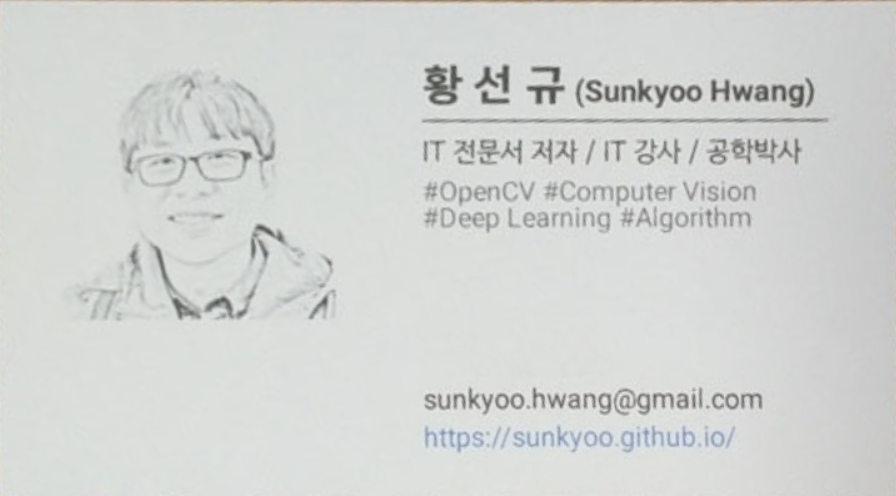
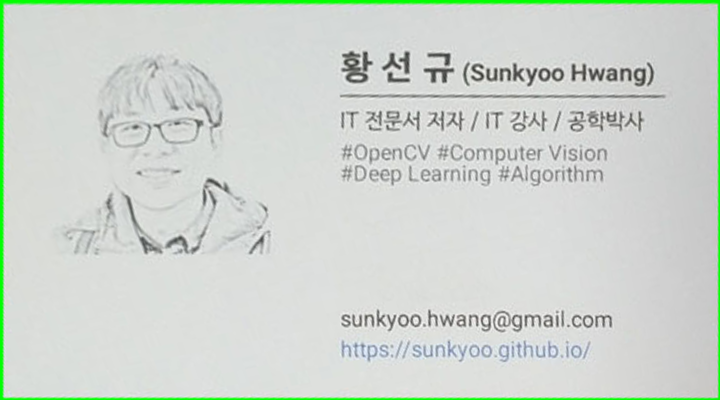
34.4-accuracy rate by pd

diff --git a/openCV_TAcademy/lecture_03/namecard.py b/openCV_TAcademy/lecture_03/namecard.py
@@ -1,51 +1,43 @@
 """
 # Tesseract-ocr 설치하기
-
-# 1. tesseract-ocr-w64-setup-v5.0.0-alpha.20191030.exe 파일 다운로드
-#    (https://digi.bib.uni-mannheim.de/tesseract/tesseract-ocr-w64-setup-v5.0.0-alpha.20200328.exe)
-# 2. 설치 시 "Additional script data" 항목에서 "Hangul Script", "Hangul vertical script" 항목 체크,
-#    "Additional language data" 항목에서 "Korean" 항목 체크.
-# 4. 설치 후 시스템 환경변수 PATH에 Tesseract 설치 폴더 추가
-#    (e.g.) c:/Program Files/Tesseract-OCR
-# 4. 설치 후 시스템 환경변수에 TESSDATA_PREFIX를 추가하고, 변수 값을 <Tesseract-DIR>/tessdata 로 설정
-# 5. <Tesseract-DIR>/tessdata/script/ 폴더에 있는 Hangul.traineddata, Hangul_vert.traineddata 파일을
-#    <Tesseract-DIR>/tessdata/ 폴더로 복사
-# 6. 명령 프롬프트 창에서 pip install pytesseract 명령 입력
+# ---------------------------
+1. tesseract-ocr-w64-setup-v5.0.0-alpha.20191030.exe 파일 다운로드
+   (https://digi.bib.uni-mannheim.de/tesseract/tesseract-ocr-w64-setup-v5.0.0-alpha.20200328.exe)
+2. 설치 시 "Additional script data" 항목에서 "Hangul Script", "Hangul vertical script" 항목 체크,
+   "Additional language data" 항목에서 "Korean" 항목 체크.
+4. 설치 후 시스템 환경변수 PATH에 Tesseract 설치 폴더 추가
+   (e.g.) c:/Program Files/Tesseract-OCR
+4. 설치 후 시스템 환경변수에 TESSDATA_PREFIX를 추가하고, 변수 값을 <Tesseract-DIR>/tessdata 로 설정
+5. <Tesseract-DIR>/tessdata/script/ 폴더에 있는 Hangul.traineddata, Hangul_vert.traineddata 파일을
+   <Tesseract-DIR>/tessdata/ 폴더로 복사
+6. 명령 프롬프트 창에서 pip install pytesseract 명령 입력
 """
 
 from typing import List
 
 import sys
 import cv2
-import PIL
-import easyocr
-# import pytesseract    # ERRON SETUP! -> easyOCR
 import numpy as np
 
-
+# import pytesseract    # ERRON SETUP! -> easyOCR
 from _path import (DIR_SRC, get_cut_dir, stop_if_none)
 
 # 영상 불러오기 : default = namecard1.jpg
-# filename = sys.argv[1] if len(sys.argv) > 1 else filename = 'namecard1.jpg'
-
 filename = 'namecard1.jpg' if len(sys.argv) <= 1 else sys.argv[1]
-dw, dh = (720, 400)             # 명함 왜곡보정 후 출력 되는 사이즈
-
+dw, dh = (720, 400)             # 명함 왜곡보정 후 출력/저장 되는 사이즈
 
 # 영상 로딩이 안될경우 시스템 종료!
 src_RGB = cv2.imread(DIR_SRC + filename)
 src_RGB = stop_if_none(src_RGB, message="image loading failed!")
 
-im = PIL.Image.open(DIR_SRC + filename)
-im = stop_if_none(im, message="image loading failed!")
-
-# 입력 영상 전처리
+# 입력 영상 전처리 = 그레이스케일 + 바이너리 이미지 만들기
 src_gray = cv2.cvtColor(src_RGB, cv2.COLOR_BGR2GRAY)
 _, src_bin = cv2.threshold(src_gray, 0, 255, cv2.THRESH_BINARY | cv2.THRESH_OTSU)
 
 # 출력 영상 설정
-src_quards = np.array([[0, 0], [0, 0], [0, 0], [0, 0]], np.float32)        # empty array
-destin_quards = np.array([[0, 0], [0, dh], [dw, dh], [dw, 0]], np.float32) # C-Clock wise
+src_quards = np.array([[0, 0], [0, 0], [0, 0], [0, 0]], np.float32)
+
+destin_quards = np.array([[0, 0], [0, dh], [dw, dh], [dw, 0]], np.float32)
 destination = np.zeros((dh, dw), np.uint8)
 
 
@@ -65,26 +57,10 @@ def get_reorder_pts(pts:List[int]) -> List[int]:
 
     return pts
 
-def draw_bounds(image, bounds, color='yellow', width=2):
-    """# import PIL needed!"""
-    # Draw bounding boxes
-
-    draw = PIL.ImageDraw.Draw(image)
-    for bound in bounds:
-        p0, p1, p2, p3 = bound[0]
-        draw.line([*p0, *p1, *p2, *p3, *p0], fill=color, width=width)
-    return image
-
-# easyOCR command :
-reader = easyocr.Reader(['en', 'ko',])
-bounds = reader.readtext(DIR_SRC + filename)     # READ TEXT RESULTS
-
-im_boxed = draw_bounds(im, bounds)                # PIL needed
-im_boxed.show()
-
 # 바이너리 이미지(src_bin) 에서 외곽선 검출하고 그 중에 명함추출 하는 방법
 contours, _ = cv2.findContours(src_bin, cv2.RETR_EXTERNAL, cv2.CHAIN_APPROX_NONE)
 
+# 외곽선(contour) 중에서 타겟 외곽선(approx)를 추출 하는 루틴!
 for contour in contours:
     # 너무 작은 객체는 제외 = 면적이 1,000픽셀보다 작은 객체는 제외
     if cv2.contourArea(contour) < 10000:
@@ -99,39 +75,97 @@ for contour in contours:
     if not cv2.isContourConvex(approx) or len(approx) != 4:
         continue
 
-    print(f'*** CHECK: {len(approx)} points found!')
-    print('approx :\n', approx)
+# 원본 이미지(src_RGB) 위에 추출된 좌표(approx)를 그린다
+cv2.polylines(src_RGB, [approx], True, (0, 255, 0), 2, cv2.LINE_AA)
+src_quards = get_reorder_pts(approx.reshape(4, 2).astype(np.float32))
 
-    cv2.polylines(src_RGB, [approx], True, (0, 255, 0), 2, cv2.LINE_AA)
-    src_quards = get_reorder_pts(approx.reshape(4, 2).astype(np.float32))
+# 퍼스펙트 왜곡을 보정한다.
+pers = cv2.getPerspectiveTransform(src_quards, destin_quards)
+destination = cv2.warpPerspective(src_RGB, pers, (dw, dh), flags=cv2.INTER_CUBIC)
 
-    pers = cv2.getPerspectiveTransform(src_quards, destin_quards)
-    destination = cv2.warpPerspective(src_RGB, pers, (dw, dh), flags=cv2.INTER_CUBIC)
+# 보여주기 위해서, BRG 포맷을 RGB 포맷으로 변형 시칸다
+# RGB퍼스팩을 추출해서 데스틴에 담는다
+dst_rgb = cv2.cvtColor(destination, cv2.COLOR_BGR2RGB)
+src_RGB_resized = cv2.resize(src=src_RGB, dsize=(0,0), fx=0.4, fy=0.4)
 
-    dst_rgb = cv2.cvtColor(destination, cv2.COLOR_BGR2RGB)
-    src_RGB_resized = cv2.resize(src=src_RGB, dsize=(0,0), fx=0.4, fy=0.4)
+# print(pytesseract.image_to_string(dst_rgb), lang='Hangul+eng')
+# print(pytesseract.image_to_string(dst_rgb))
 
-
-    # print(pytesseract.image_to_string(dst_rgb), lang='Hangul+eng')
-    # print(pytesseract.image_to_string(dst_rgb))
-
-    # cv2.imshow('src_RGB', src_RGB)
-    cv2.imshow('src_RGB_resized', src_RGB_resized)
-    # cv2.imshow('src_gray', src_gray)
-    # cv2.imshow('src_bin', src_bin)
-
-
-
-
-
+# 가공된 이미지를 보여준다.
+cv2.imshow('src_RGB', src_RGB)
+cv2.imshow('src_gray', src_gray)
+cv2.imshow('src_bin', src_bin)
+cv2.imshow('src_RGB_resized', src_RGB_resized)
 cv2.imshow('namecard_extracted', destination)
-cv2.imwrite(DIR_SRC + 'namecard_extracted.png', destination)
 
-# READ TEXT RESULTS
-bounds = reader.readtext(DIR_SRC + 'namecard_extracted.png')
-
-for bound in bounds:
-    print(f"{bounnd[-1]*100:0.5f}% | {bounnd[-2]}")
+cv2.imwrite(DIR_SRC + 'resultOCR\\namecard_extracted.png', destination)
 
 cv2.waitKey()
 cv2.destroyAllWindows()
+
+
+
+
+
+
+# READ TEXT RESULTS by easyOCR / PIL
+import easyocr
+import pandas as pd
+import seaborn as sns
+import matplotlib.pyplot as plt
+
+from PIL import (Image, ImageDraw)
+
+im = Image.open(DIR_SRC + 'resultOCR\\namecard_extracted.png')
+im = stop_if_none(im, message="image loading failed!")
+
+# easyOCR command :
+# CUDA not available - defaulting to CPU. Note:
+# This module is much faster with a GPU.
+reader = easyocr.Reader(['en', 'ko',])
+bounds = reader.readtext(DIR_SRC + 'resultOCR\\namecard_extracted.png')
+
+
+def draw_bounds(image, bounds, color='yellow', width=2):
+    """# from PIL import (Image, ImageDraw) needed!"""
+    # Draw bounding boxes
+
+    draw = ImageDraw.Draw(image)
+    for bound in bounds:
+        p0, p1, p2, p3 = bound[0]
+        draw.line([*p0, *p1, *p2, *p3, *p0], fill=color, width=width)
+    return image
+
+im_boxed = draw_bounds(im, bounds)                # PIL needed
+im_boxed.show()
+
+
+# 확률(probs)순으로 내림차순 정렬을 한다.
+df_bounds = pd.DataFrame(bounds, columns=['coord', 'reads', 'probs'])
+df_bounds_sort = df_bounds.sort_values(by=['probs'], ascending=False, axis=0)
+
+
+print('\n\n')
+print(df_bounds_sort.head())
+
+
+print('\n\n')
+for idx, prob, read in zip(df_bounds_sort.index,df_bounds_sort.probs, df_bounds_sort.reads):
+    print(f"{prob * 100:5.2f} % ... |   {read:30}")
+
+# To SEE : ACCURACY CHART
+fig, axes = plt.subplots(2,2, figsize=(12,6))
+# df_bounds.probs.plot.barh(ax=axes[0,0])
+df_bounds.probs.plot(ax=axes[0,0])
+df_bounds.probs.hist(bins=27, ax=axes[0,1])
+sns.boxplot(df_bounds.probs, ax=axes[1,1])
+plt.show()
+
+
+
+"""
+for prob in probs:
+    print(prob)
+
+probs.sort(key=lambda x: x[1])          # sort by probablity
+"""
